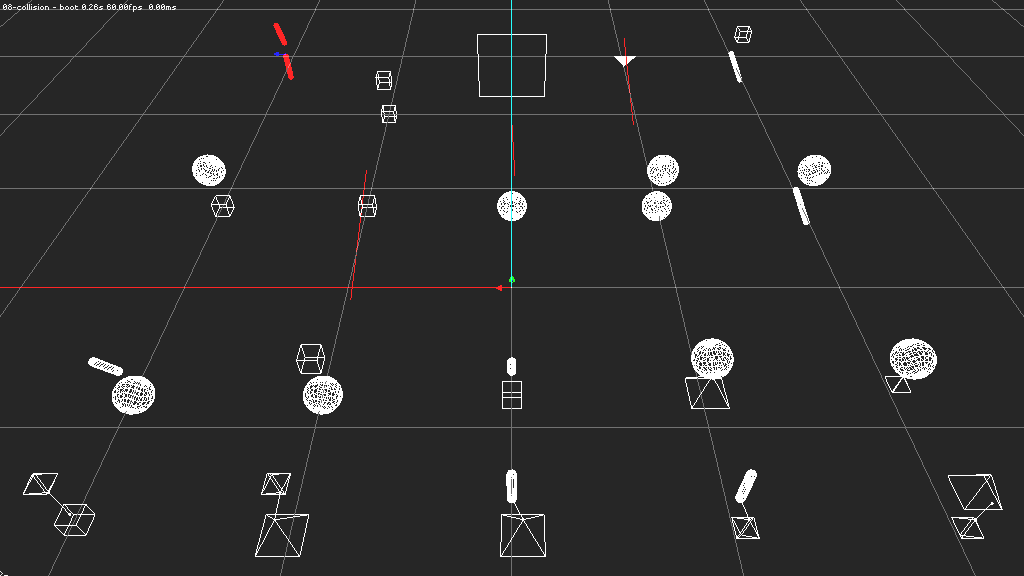
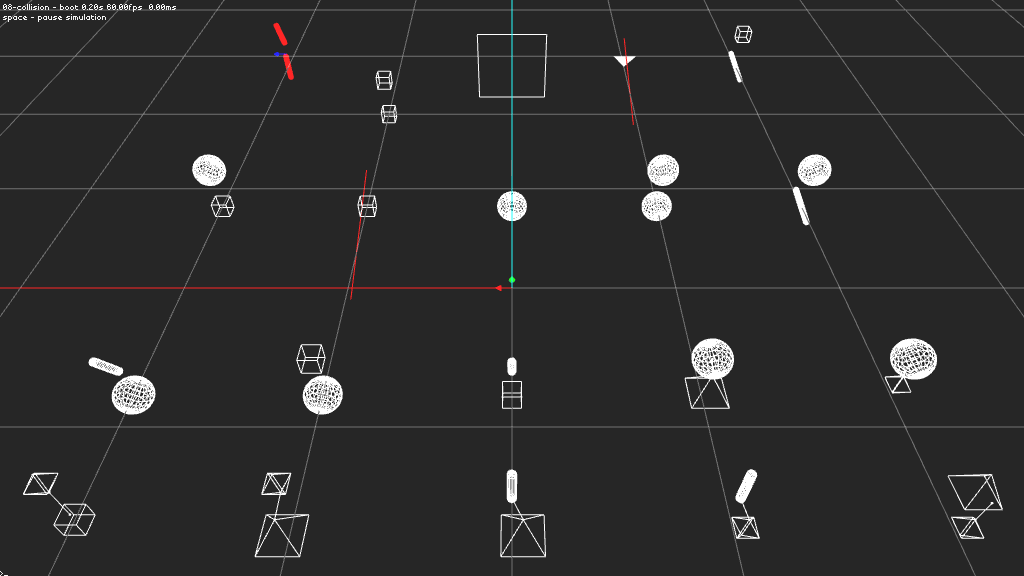
engine: approximate sphere-capsule intersection

diff --git a/engine/math/math_geometry.c b/engine/math/math_geometry.c
@@ -20,7 +20,7 @@ typedef union  frustum  { struct { vec4 l, r, t, b, n, f; }; vec4 pl[6]; float v
 #define aabb(...)       M_CAST(aabb, __VA_ARGS__)
 #define plane(...)      M_CAST(plane, __VA_ARGS__)
 #define capsule(...)    M_CAST(capsule, __VA_ARGS__)
-#define ray(p,d)        M_CAST(ray, p, norm3(d))
+#define ray(p,normdir)  M_CAST(ray, p, normdir)
 #define triangle(...)   M_CAST(triangle, __VA_ARGS__)
 #define poly(...)       M_CAST(poly, __VA_ARGS__)
 #define frustum(...)    M_CAST(frustum, __VA_ARGS__)
@@ -456,24 +456,35 @@ int sphere_test_capsule(sphere s, capsule c) {
     return capsule_test_sphere(c, s);
 }
 hit *sphere_hit_capsule(sphere s, capsule c) {
-    /* find closest capsule point to sphere center point */
-    vec3 cp = capsule_closest_point(c, s.c);
-    hit *m = hit_next();
-    m->normal = sub3(cp, s.c);
-    float d2 = dot3(m->normal, m->normal);
-    if (d2 > s.r*s.r) return 0;
+#if 0
+        // original code
+        /* find closest capsule point to sphere center point */
+        hit *m = hit_next();
+        vec3 cp = capsule_closest_point(c, s.c);
+        m->normal = sub3(cp, s.c);
+        float d2 = dot3(m->normal, m->normal);
+        if (d2 > s.r*s.r) return 0;
 
-    /* normalize hit normal vector */
-    float l = d2 != 0.0f ? sqrtf(d2): 1;
-    float linv = 1.0f/l;
-    m->normal = scale3(m->normal, linv);
+        /* normalize hit normal vector */
+        m->normal = norm3(m->normal);
 
-    /* calculate penetration depth */
-    m->contact_point = scale3(m->normal, s.r);
-    m->contact_point = add3(s.c, m->contact_point);
-    m->depth = d2 - s.r*s.r;
-    m->depth = m->depth != 0.0f ? sqrtf(m->depth): 0.0f;
-    return m;
+        /* calculate penetration depth */
+        m->depth = d2 - s.r*s.r;
+        m->depth = m->depth != 0.0f ? sqrtf(m->depth): 0.0f;
+        m->contact_point = add3(s.c, scale3(m->normal, s.r));
+        return m;
+#else
+        // aproximation of I would expect this function to return instead
+        vec3 l = sub3(c.a,c.b); float len = len3(l);
+        vec3 d = norm3(l);
+        ray r = ray(add3(c.a,scale3(d,-2*len)), d);
+        s.r += c.r;
+        hit *h = ray_hit_sphere(r, s);
+        if(!h) return 0;
+        s.r -= c.r;
+        h->contact_point = add3(s.c,scale3(norm3(sub3(h->contact_point,s.c)),s.r));
+        return h;
+#endif
 }
 int sphere_test_poly(sphere s, poly p) {
     return poly_test_sphere(p, s);
@@ -630,8 +641,7 @@ vec3 capsule_closest_point(capsule c, vec3 p) {
     vec3 pp = line_closest_point(line(c.a,c.b), p);
 
     /* extend point out by radius in normal direction */
-    vec3 d = sub3(p,pp);
-    d = norm3(d);
+    vec3 d = norm3(sub3(p,pp));
     return add3(pp, scale3(d, c.r));
 }
 int capsule_test_capsule(capsule a, capsule b) {

diff --git a/games/demos/08-collision.c b/games/demos/08-collision.c
@@ -4,7 +4,7 @@
 #include <engine.h>
 
 int main(void) {
-    window_create(0.75f, 0);
+    window_create(0.75f, WINDOW_MSAA4);
 
     // Camera
     camera cam;
@@ -13,6 +13,8 @@ int main(void) {
     // point to origin
     cam.position = vec3(0,30,-30); cam.pitch = -45;
     camera_fps(&cam, vec3(0,0,0), vec2(0,0));
+
+    int paused = 0;
 
     // main loop
     while(window_update()) {
@@ -24,8 +26,9 @@ int main(void) {
         if (key_down('ESC')) break;
 
         // animation
-        float delta = 1 / 60.f;
         static float dx = 0, dy = 0;
+        if (key_down(' ')) paused ^= 1;
+        float delta = (0.25f / 60.f) * !paused;
         dx = dx + delta * 2.0f;
         dy = dy + delta * 0.8f;
 
@@ -565,6 +568,7 @@ int main(void) {
         ddraw_end();
 
         ddraw_printf( window_stats() );
+        ddraw_printf( "space - pause simulation");
         window_swap(0);
     }
 }
